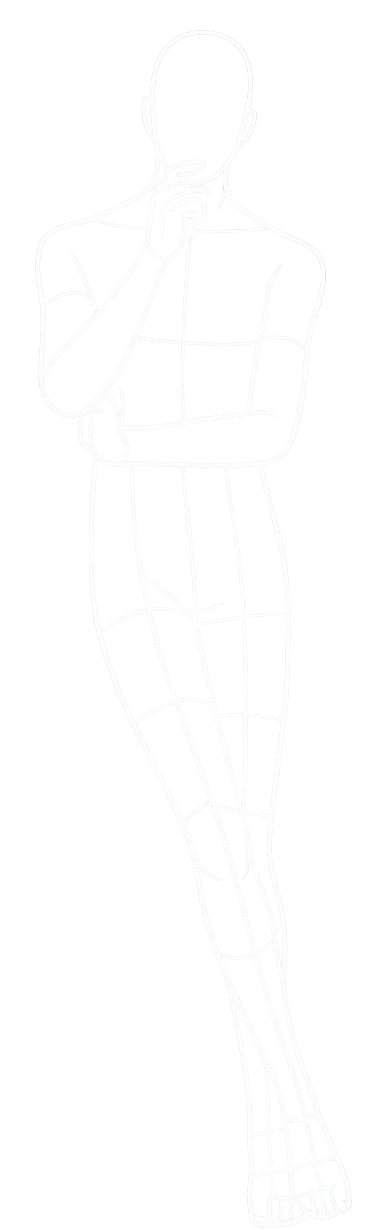
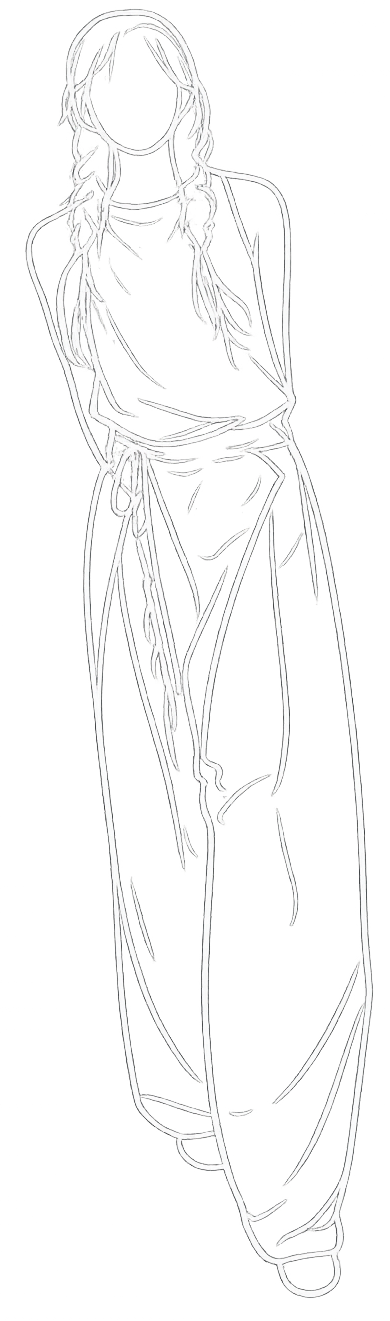
add pose, fix map bug

diff --git a/lib/screen/camera_screen.dart b/lib/screen/camera_screen.dart
@@ -2033,25 +2033,41 @@ class _CameraScreenState extends State<CameraScreen> {
                   }
 
                   Widget content = const SizedBox();
-                  if (_selectedSilhouette == SilhouetteType.standing) {
-                    content = Opacity(
-                      opacity: 0.5,
-                      child: Image.asset(
-                        'assets/images/pose_standing.png',
-                        fit: BoxFit.fitHeight,
-                      ),
-                    );
-                    if (targetBox != null) {
-                      content = Stack(
-                        children: [
-                          Positioned.fromRect(
-                            rect: targetBox,
-                            child: content,
-                          ),
-                        ],
+                  if (_selectedSilhouette != SilhouetteType.none) {
+                    String assetPath = '';
+                    switch (_selectedSilhouette) {
+                      case SilhouetteType.standing:
+                        assetPath = 'assets/images/pose_standing.png';
+                        break;
+                      case SilhouetteType.sitting:
+                        assetPath = 'assets/images/pose_sitting.png';
+                        break;
+                      case SilhouetteType.standing2:
+                        assetPath = 'assets/images/pose_standing2.png';
+                        break;
+                      default:
+                        break;
+                    }
+                    if (assetPath.isNotEmpty) {
+                      content = Opacity(
+                        opacity: 0.5,
+                        child: Image.asset(
+                          assetPath,
+                          fit: BoxFit.fitHeight,
+                        ),
                       );
-                    } else {
-                      content = Center(child: content);
+                      if (targetBox != null) {
+                        content = Stack(
+                          children: [
+                            Positioned.fromRect(
+                              rect: targetBox,
+                              child: content,
+                            ),
+                          ],
+                        );
+                      } else {
+                        content = Center(child: content);
+                      }
                     }
                   }
 

diff --git a/lib/screen/main_shell.dart b/lib/screen/main_shell.dart
@@ -59,7 +59,10 @@ class _MainShellState extends State<MainShell> {
 
   Future<void> _warmUpLocation() async {
     try {
-      final permission = await Geolocator.checkPermission();
+      var permission = await Geolocator.checkPermission();
+      if (permission == LocationPermission.denied) {
+        permission = await Geolocator.requestPermission();
+      }
       if (permission == LocationPermission.denied ||
           permission == LocationPermission.deniedForever) {
         return;
@@ -67,7 +70,9 @@ class _MainShellState extends State<MainShell> {
       await Geolocator.getCurrentPosition(
         locationSettings: const LocationSettings(accuracy: LocationAccuracy.high),
       );
-    } catch (_) {}
+    } catch (e) {
+      debugPrint('[MainShell] _warmUpLocation error: $e');
+    }
   }
 
   void goToTab(int index) {

diff --git a/lib/main.dart b/lib/main.dart
@@ -15,8 +15,8 @@ List<CameraDescription> cameras = [];
 Future<void> main() async {
   WidgetsFlutterBinding.ensureInitialized();
   await _loadDotenv();
+  await _initializeAppServices();
   runApp(const PozyApp());
-  unawaited(_initializeAppServices());
 }
 
 Future<void> _loadDotenv() async {
@@ -28,9 +28,11 @@ Future<void> _loadDotenv() async {
 }
 
 Future<void> _initializeAppServices() async {
-  unawaited(_initializeNaverMap());
-  unawaited(_initializeFirebase());
-  unawaited(_initializeCameras());
+  await Future.wait([
+    _initializeNaverMap(),
+    _initializeFirebase(),
+    _initializeCameras(),
+  ]);
 }
 
 Future<void> _initializeNaverMap() async {

diff --git a/lib/screen/camera/widgets/composition_rule_selector.dart b/lib/screen/camera/widgets/composition_rule_selector.dart
@@ -56,9 +56,13 @@ class _CompositionRuleSelectorState extends State<CompositionRuleSelector> {
   String _silhouetteLabel(SilhouetteType type) {
     switch (type) {
       case SilhouetteType.none:
-        return '없음';
+        return '실루엣 선택';
       case SilhouetteType.standing:
-        return '전신';
+        return '전신 (서기)';
+      case SilhouetteType.sitting:
+        return '전신 (앉기)';
+      case SilhouetteType.standing2:
+        return '전신 2';
     }
   }
 

diff --git a/lib/screen/camera/widgets/silhouette_selector.dart b/lib/screen/camera/widgets/silhouette_selector.dart
@@ -17,6 +17,8 @@ class SilhouetteSelector extends StatelessWidget {
     const items = [
       (SilhouetteType.none, Icons.not_interested_rounded, '없음'),
       (SilhouetteType.standing, Icons.accessibility_new_rounded, '전신'),
+      (SilhouetteType.sitting, Icons.airline_seat_recline_normal_rounded, '앉기'),
+      (SilhouetteType.standing2, Icons.accessibility_rounded, '전신2'),
     ];
 
     return SingleChildScrollView(

diff --git a/lib/coaching/portrait/silhouette_shapes.dart b/lib/coaching/portrait/silhouette_shapes.dart
@@ -1,4 +1,4 @@
 
-enum SilhouetteType { none, standing }
+enum SilhouetteType { none, standing, sitting, standing2 }
 
 
